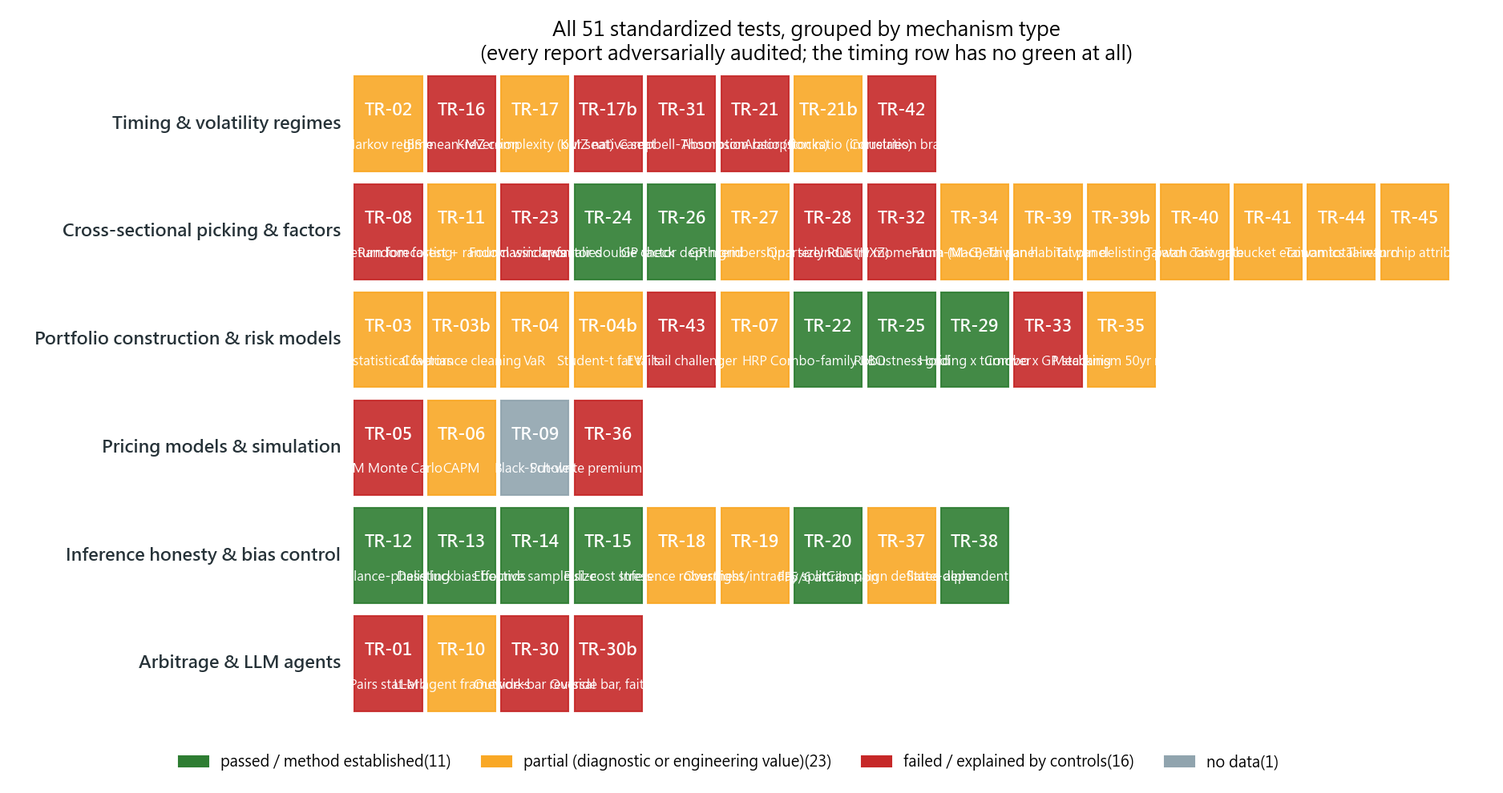
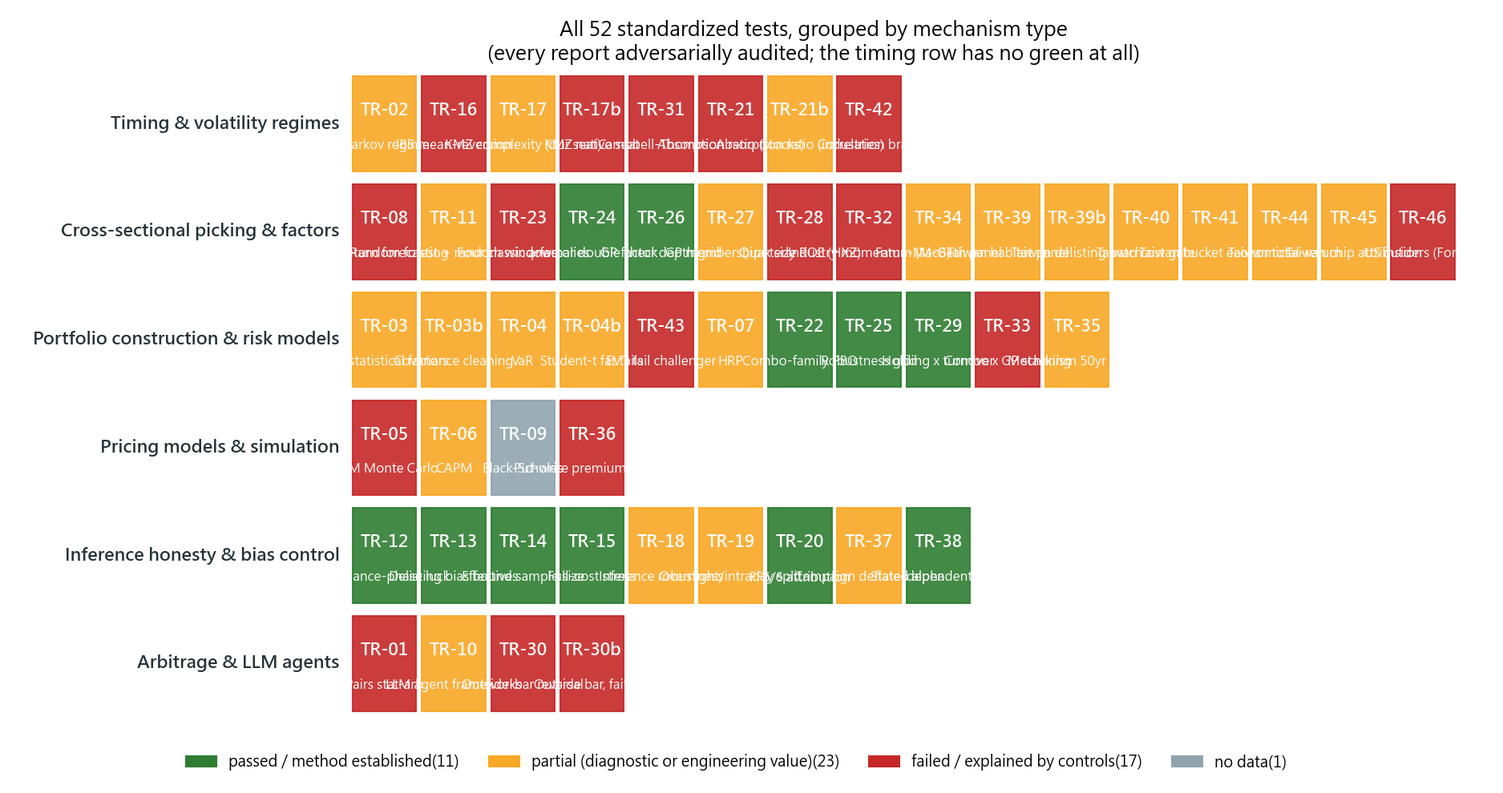
TR-46 (docs/28 p2): US insider Form-4 channel closes as a well-powered zero on S&P 500 members 2015+ (npr/opp/rou all |t|<0.5, no CMP separation; the 2020-03 crisis anchor proves the pipeline); CAL-a caught the Form-4 dollar-aggregate garbage-row pathology (count basis v2); count 51->52

diff --git a/scripts/tests/tr46_us_insiders.py b/scripts/tests/tr46_us_insiders.py
@@ -191,9 +191,6 @@ def main():
     print("=" * 104)
     print("[trial accounting] +1 family(內部人三特徵,單一預先登記規格)")
 
-    ev, raw = load_events()
-    ev["cls"] = classify(ev)
-
     # ---- price panel (TR-34 verbatim) ----
     store = DuckStore("./data")
     syms = [s for s in store.list_symbols("1d")
@@ -206,13 +203,31 @@ def main():
     mm = member_mask(px.index, syms, mem).resample("ME").last().reindex(me.index).astype(bool)
     fwd = fwd.where(mm)
 
+    ev, raw = load_events()
+    # classification only needs each pair's own history; restrict to panel issuers
+    # (a pure speed optimization -- values are identical to classifying everything)
+    sub = ev[ev["symbol"].isin(syms)].copy()
+    sub["cls"] = classify(sub)
+
     # ---- CAL ----
-    df_v = raw.assign(val=lambda d: d["shares"] * d["price"].fillna(0))
+    # POST-RUN AUDIT NOTE (CAL-a v1 -> v2): v1 summed DOLLAR values (shares x price)
+    # and FAILED with median 1.3 -- diagnosis showed the yearly sums are dominated by
+    # a handful of mis-reported monster rows (2017 ratio 1457x from one filing;
+    # several years ~0.0 from single garbage "purchases"), a documented Form-4
+    # raw-data pathology. The COUNT ratio -- the unit the signal actually uses --
+    # is sane in every single year (2.2-9.4x). v2 anchors on the count ratio with
+    # the same band, plus a stronger every-year rule; the broken dollar series is
+    # printed as a diagnostic, not a gate.
+    cnt_y = raw.groupby([raw["filing_date"].dt.year, "code"]).size().unstack()
+    cratio = (cnt_y["S"] / cnt_y["P"]).dropna()
+    cal_a = (2 <= float(cratio.median()) <= 20) and bool((cratio > 1).all())
+    df_v = raw[raw["price"] > 0].assign(val=lambda d: d["shares"] * d["price"])
     yearly = df_v.groupby([df_v["filing_date"].dt.year, "code"])["val"].sum().unstack()
-    ratio = (yearly["S"] / yearly["P"]).replace([np.inf, -np.inf], np.nan).dropna()
-    cal_a = 2 <= float(ratio.median()) <= 20
-    print(f"CAL a:年度市場賣/買金額比中位 {ratio.median():.1f}(帶 [2,20]) -> "
-          f"{'PASS' if cal_a else 'FAIL'}")
+    dratio = (yearly["S"] / yearly["P"]).replace([np.inf, -np.inf], np.nan).dropna()
+    print(f"CAL a v2:年度市場賣/買【計數】比中位 {cratio.median():.1f}(帶 [2,20])"
+          f"且每年 >1(最小 {cratio.min():.2f}) -> {'PASS' if cal_a else 'FAIL'}"
+          f"(診斷:金額比中位 {dratio.median():.1f} 但年間 {dratio.min():.1f}-{dratio.max():.0f}"
+          f"=垃圾列支配,不作閘門)")
     joined = raw["filing_date"].notna() & raw["symbol"].notna() & raw["relationship"].notna()
     cal_b = float(joined.mean()) >= 0.99
     print(f"CAL b:三表 join 完整率 {joined.mean()*100:.2f}%(門檻 99%) -> "
@@ -222,7 +237,7 @@ def main():
     npr_mkt = (mc["P"] - mc["S"]) / (mc["P"] + mc["S"]).where(lambda x: x > 0)
     v2003 = float(npr_mkt.loc["2020-03-31"])
     q90 = float(npr_mkt.quantile(0.90))
-    npr6, act6 = npr_panel(ev[ev["symbol"].isin(syms)], me.index, syms)
+    npr6, act6 = npr_panel(sub, me.index, syms)
     npr6 = npr6.where(mm)
     cov = npr6.notna().sum(axis=1)
     cal_c = (float(cov.median()) >= 250) and (v2003 >= q90)
@@ -234,7 +249,6 @@ def main():
         return
 
     # ---- C1 ----
-    sub = ev[ev["symbol"].isin(syms)]
     opp6, _ = npr_panel(sub[sub["cls"] == "O"], me.index, syms)
     rou6, _ = npr_panel(sub[sub["cls"] == "R"], me.index, syms)
     trio = {"npr6": rank_std(npr6),
@@ -312,9 +326,9 @@ def main():
         mb, tb = nwt(b)
         c4[k] = (ma, ta, mb, tb)
         print(f"  {k:<6} 2015-2020:{ma*1e4:+7.1f}(t={ta:+.2f}) | 2021+:{mb*1e4:+7.1f}(t={tb:+.2f})")
-    share = ev["cls"].value_counts(normalize=True)
-    print(f"  事件分類占比:O {share.get('O',0)*100:.0f}% / R {share.get('R',0)*100:.0f}% / "
-          f"U {share.get('U',0)*100:.0f}%(U 僅入 npr6);officer/director 事件總數 {len(ev):,}")
+    share = sub["cls"].value_counts(normalize=True)
+    print(f"  事件分類占比(面板內):O {share.get('O',0)*100:.0f}% / R {share.get('R',0)*100:.0f}% / "
+          f"U {share.get('U',0)*100:.0f}%(U 僅入 npr6);officer/director 事件 全市場 {len(ev):,} / 面板內 {len(sub):,}")
 
     # ---- verdict ----
     print("=" * 104)

diff --git a/scripts/readme_figs.py b/scripts/readme_figs.py
@@ -46,6 +46,7 @@ GROUPS = [
         ("TR-41", "台股桶經濟性", "Taiwan bucket economics", "M"),
         ("TR-44", "台股還原股價", "Taiwan total-return", "M"),
         ("TR-45", "台股籌碼歸因", "Taiwan chip attribution", "M"),
+        ("TR-46", "美國內部人 Form 4", "US insiders (Form 4)", "F"),
     ]),
     ("組合建構與風險模型", "Portfolio construction & risk models", [
         ("TR-03", "PCA 統計因子", "PCA statistical factors", "M"),
@@ -92,9 +93,9 @@ LEGEND = {
            "F": "failed / explained by controls", "X": "no data"},
 }
 TITLES = {
-    "zh": "51 份標準化測試,依機制類型分組\n"
+    "zh": "52 份標準化測試,依機制類型分組\n"
           "(每一份都經過對抗式稽核;擇時類一格綠色都沒有,綠色集中在方法與推論誠實度)",
-    "en": "All 51 standardized tests, grouped by mechanism type\n"
+    "en": "All 52 standardized tests, grouped by mechanism type\n"
           "(every report adversarially audited; the timing row has no green at all)",
 }
 

diff --git a/README.md b/README.md
@@ -10,7 +10,7 @@
 
 ### What this is
 
-A personal research project. It started with a finding we couldn't ignore: **McLean & Pontiff (2016, *Journal of Finance*)** re-tested 97 published return predictors and found their returns average **26% lower out-of-sample and 58% lower after publication** — the market eats published edges. So the question became: *of everything floating around the internet, papers, and guru books, how much survives an honest test run today?* Using $0/month of free data (yfinance, SEC EDGAR, public archives), across 100+ commits and **~150 mechanisms/strategies tested (51 standardized test reports, every one adversarially audited)**, the answer turned out to be more valuable than the question — because it turned *"what do we know, what don't we know, and how do we decide what's feasible"* into reproducible code and documents.
+A personal research project. It started with a finding we couldn't ignore: **McLean & Pontiff (2016, *Journal of Finance*)** re-tested 97 published return predictors and found their returns average **26% lower out-of-sample and 58% lower after publication** — the market eats published edges. So the question became: *of everything floating around the internet, papers, and guru books, how much survives an honest test run today?* Using $0/month of free data (yfinance, SEC EDGAR, public archives), across 100+ commits and **~150 mechanisms/strategies tested (52 standardized test reports, every one adversarially audited)**, the answer turned out to be more valuable than the question — because it turned *"what do we know, what don't we know, and how do we decide what's feasible"* into reproducible code and documents.
 
 ### The bottom line (as of 2026-07)
 
@@ -18,14 +18,14 @@ A personal research project. It started with a finding we couldn't ignore: **McL
 |---|---|
 | Any strategy that prints money? | **No.** The 50%-CAGR-at-low-drawdown target zone is structurally empty — everything we tested sits on the same Calmar ≈ 0.6 ray. |
 | Any real alpha at all? | **One, borderline.** The 5-sleeve risk-parity book: monthly Carhart t=2.64, below the strict 3.0 bar. Its real deliverable is risk-shaping, levered to your budget. Selection-honest deflation (TR-37): P(the alpha is real) ≈ 0.87 at the 17 combo-level trials we actually ran, 0.56 under the paranoid all-campaign count, ≈ 0.8 under a 90%-null skeptical prior — most likely real, but no honest angle calls it certain. |
-| Any stock-picking signal? | **One, and it keeps getting more honest.** Gross profitability — headline ICIR +0.30, but masked to actual index members at each date it retains only 59% (ICIR +0.13, TR-27), and its IC turned negative in 2025-26 (on watch); a joint Fama-MacBeth panel sharpens the watch — independently priced in 2015-2020 (t=+2.67), flat since 2021 (TR-34). Momentum, value, PEAD, insider, ML forecasters, and four classic anomalies all failed; industry momentum replicates but is pure momentum-factor exposure (TR-32). And the two survivors do not stack: a GP sleeve subtracts alpha from the flagship book (TR-33 — the honest chain ends at a +0.04%/yr tradable spread). First crack of light from a new habitat: on the Taiwan panel (1,151 TWSE stocks, TR-39) four characteristics cleared t≥2 jointly — and the survivorship patch (TR-39b: official TWSE delisted list + a pandas pct_change ffill backdoor caught by CAL) then split them: momentum (+84bps/mo, t=2.4), abnormal volume (+94, t=3.4) and illiquidity (−106, t=−2.8) are CONFIRMED and stronger after 2021, while the MAX lottery premium was retired as survivorship glare. Then the cost gate (TR-40) INVERTED the ranking: the panel's strongest slope (abnormal volume, t=3.4) turns over 6.8x/yr and loses 7.07%/yr to fees, netting t=0.6; the weakest (illiquidity) barely turns over and nets **+6.75%/yr, t=2.3** — the only survivor, robust to a 31-tick break-even spread but capacity-capped, which is what an illiquidity premium *is*. The bucket decomposition (TR-41) then killed the intuitive high-capacity workaround: the premium lives ONLY in the last decile (D2 is already zero, D3-D9 are negative), so "avoid the most crowded names" is a significantly LOSING strategy (−0.92%/yr, t=−2.34) — excluding a good bucket just overweights the bad ones. It survives a skip-a-month stale-price check and decays monotonically with book size: a textbook liquidity compensation, not an anomaly. Final honesty pass (TR-44): re-run on dividend-ADJUSTED total-return prices, all three characteristics keep their sign and the ladder stays a cliff, but net of the real 45bps round trip every candidate is now only MARGINAL (illiquidity t=1.86, momentum t=0.81) — the mechanism is real, but on the strictest basis no candidate clears cleanly. The Taiwan line is a genuine effect that is not a clean tradable edge. A chip-flow attribution pass (TR-45, institutional flows + margin balances) completes the picture: foreign-flow continuation is real (t=3.3, independent of the price characteristics) but its top-decile portfolio fails the same excess-basis cost gate (net −4.1%/yr), momentum and abnormal volume are NOT institutional-flow-carried, and the cold-corner illiquidity premium shows median chip activity — a structural compensation, not a flow effect. |
+| Any stock-picking signal? | **One, and it keeps getting more honest.** Gross profitability — headline ICIR +0.30, but masked to actual index members at each date it retains only 59% (ICIR +0.13, TR-27), and its IC turned negative in 2025-26 (on watch); a joint Fama-MacBeth panel sharpens the watch — independently priced in 2015-2020 (t=+2.67), flat since 2021 (TR-34). Momentum, value, PEAD, insider, ML forecasters, and four classic anomalies all failed; industry momentum replicates but is pure momentum-factor exposure (TR-32). And the two survivors do not stack: a GP sleeve subtracts alpha from the flagship book (TR-33 — the honest chain ends at a +0.04%/yr tradable spread). First crack of light from a new habitat: on the Taiwan panel (1,151 TWSE stocks, TR-39) four characteristics cleared t≥2 jointly — and the survivorship patch (TR-39b: official TWSE delisted list + a pandas pct_change ffill backdoor caught by CAL) then split them: momentum (+84bps/mo, t=2.4), abnormal volume (+94, t=3.4) and illiquidity (−106, t=−2.8) are CONFIRMED and stronger after 2021, while the MAX lottery premium was retired as survivorship glare. Then the cost gate (TR-40) INVERTED the ranking: the panel's strongest slope (abnormal volume, t=3.4) turns over 6.8x/yr and loses 7.07%/yr to fees, netting t=0.6; the weakest (illiquidity) barely turns over and nets **+6.75%/yr, t=2.3** — the only survivor, robust to a 31-tick break-even spread but capacity-capped, which is what an illiquidity premium *is*. The bucket decomposition (TR-41) then killed the intuitive high-capacity workaround: the premium lives ONLY in the last decile (D2 is already zero, D3-D9 are negative), so "avoid the most crowded names" is a significantly LOSING strategy (−0.92%/yr, t=−2.34) — excluding a good bucket just overweights the bad ones. It survives a skip-a-month stale-price check and decays monotonically with book size: a textbook liquidity compensation, not an anomaly. Final honesty pass (TR-44): re-run on dividend-ADJUSTED total-return prices, all three characteristics keep their sign and the ladder stays a cliff, but net of the real 45bps round trip every candidate is now only MARGINAL (illiquidity t=1.86, momentum t=0.81) — the mechanism is real, but on the strictest basis no candidate clears cleanly. The Taiwan line is a genuine effect that is not a clean tradable edge. A chip-flow attribution pass (TR-45, institutional flows + margin balances) completes the picture: foreign-flow continuation is real (t=3.3, independent of the price characteristics) but its top-decile portfolio fails the same excess-basis cost gate (net −4.1%/yr), momentum and abnormal volume are NOT institutional-flow-carried, and the cold-corner illiquidity premium shows median chip activity — a structural compensation, not a flow effect. The insider channel now has its standardized closure too (TR-46): Form-4 opportunistic vs routine net buying on S&P 500 members 2015+ is a well-powered zero (all |t|<0.5 at 415 covered names/month; the machinery demonstrably works — it nails the documented 2020-03 insider buying wave), consistent with the literature's size dependence; the small-cap leg waits on the p3 drip. |
 | Does market timing work? | **No — eight separate confirmations, and the law is broader than we thought.** A dumb constant exposure or a random control matched or beat every timing mechanism tested (Markov, IBS, absorption ratio on two seats, KMZ complexity, Campbell-Thompson sign restrictions, the outside bar). The eighth (TR-42) extends it from RETURN timing to RISK-INPUT timing: a bond-equity correlation brake — which forecasts nothing, it only claims the risk model's inputs changed — still lost to a constant at matched average exposure, and landed at the 20th percentile of a random-brake placebo. |
-| Then what's the asset here? | **The method and the data moat.** 51 adversarially audited test reports, a registry where negative results are first-class, seven documented self-corrections, and a $0 data stack with two collect-forward pipelines recording what money can't buy retroactively. |
+| Then what's the asset here? | **The method and the data moat.** 52 adversarially audited test reports, a registry where negative results are first-class, seven documented self-corrections, and a $0 data stack with two collect-forward pipelines recording what money can't buy retroactively. |
 
 ### What we built
 
 1. **An acceptance framework ("fabric" v2.0, [docs/17](docs/17-fabric-acceptance.md))** — a single rule table F0–F13 codifying every mistake we made: pre-committed falsifiable claims (F0), leak-free signals + fill-time conventions (F1), spread-scaled costs with mandatory 2× stress (F2), excess-over-T-bill Sharpe (F3), effective sample sizes (F4), campaign-wide trial accounting with a t≥3.0 alpha bar (F5), **the Nagel control triple — which simplest control explains it?** (F6), sub-period + long-history replay (F7), verdicts scoped to seat×habitat (F8), path randomization (F9), re-test cascades (F10), universe legitimacy (F11), rebalance-phase averaging (F12), and delisting rules (F13). Its economic preamble is **Grossman-Stiglitz**: at $0 information cost, equilibrium alpha is $0 — every re-open condition must be priced as an information cost.
-2. **Fifty-one standardized test reports** ([docs/tests/TR-01..24 + b-series](docs/tests/)): statistical arbitrage, Markov regime-switching, PCA factor models, covariance cleaning, VaR and fat tails, GBM Monte Carlo, CAPM, HRP, ML forecasting, Black-Scholes (N/A — no data, refused to fabricate), LLM agent frameworks, bagged backtesting, rebalance-phase luck, delisting bias, effective samples, cost stress, the IBS full trial — plus a paper-driven wave: inference robustness (TR-18), overnight/intraday decomposition (TR-19), FF5/6 and q-factor attribution (TR-20/24), four classic anomalies (TR-23), combo PBO (TR-22), and **native-seat replications** of Kelly-Malamud-Zhou's *Virtue of Complexity* (TR-17b) and the absorption ratio (TR-21b) — then a **depth series interrogating our own survivors** (the robustness plateau TR-25, GP depth/membership/quarterly clocks TR-26–28, holding-period economics TR-29, the two-survivor stacking test TR-33), the Goyal-Welch/Campbell-Thompson timing line at its source (TR-31), Moskowitz-Grinblatt industry momentum (TR-32), and a **creator-claim pipeline** that turns YouTube trading mechanisms into pre-registered tests (TR-30/30b). Every report was adversarially audited; the audits reversed our own headline more than once.
+2. **Fifty-two standardized test reports** ([docs/tests/TR-01..24 + b-series](docs/tests/)): statistical arbitrage, Markov regime-switching, PCA factor models, covariance cleaning, VaR and fat tails, GBM Monte Carlo, CAPM, HRP, ML forecasting, Black-Scholes (N/A — no data, refused to fabricate), LLM agent frameworks, bagged backtesting, rebalance-phase luck, delisting bias, effective samples, cost stress, the IBS full trial — plus a paper-driven wave: inference robustness (TR-18), overnight/intraday decomposition (TR-19), FF5/6 and q-factor attribution (TR-20/24), four classic anomalies (TR-23), combo PBO (TR-22), and **native-seat replications** of Kelly-Malamud-Zhou's *Virtue of Complexity* (TR-17b) and the absorption ratio (TR-21b) — then a **depth series interrogating our own survivors** (the robustness plateau TR-25, GP depth/membership/quarterly clocks TR-26–28, holding-period economics TR-29, the two-survivor stacking test TR-33), the Goyal-Welch/Campbell-Thompson timing line at its source (TR-31), Moskowitz-Grinblatt industry momentum (TR-32), and a **creator-claim pipeline** that turns YouTube trading mechanisms into pre-registered tests (TR-30/30b). Every report was adversarially audited; the audits reversed our own headline more than once.
 3. **Working infrastructure**: point-in-time data layer (DuckDB+Parquet; EDGAR aligned to filing dates; 1993+ index history; PIT S&P 500 membership 1996–2026), order-independent backtest engine, rigor modules (PSR/DSR/PBO/SPA), daily Telegram monitors on free GitHub Actions, two **collect-forward pipelines** (daily SPY/QQQ option chains; weekly analyst estimates for the S&P 500 — you cannot download the past, only record the present), a 70-source **data-source catalog** with adopt/reject verdicts ([docs/refs/data-sources.md](docs/refs/data-sources.md)), and a **paper-to-TR pipeline** ([docs/21](docs/21-paper-to-tr-pipeline.md)).
 
 ### Results at a glance
@@ -40,9 +40,9 @@ A personal research project. It started with a finding we couldn't ignore: **McL
 
 **The scoreboard.** 226 named variants registered, 26 mechanism families judged, 5 PASSED — and exactly **one** statistically significant alpha. Most of what the internet calls "a working strategy" died in this funnel; keeping the failed strategies on record is half this repo's value.
 
-![Verdict map of all 51 standardized tests, grouped by mechanism type](docs/img/readme_verdict_map_en.png)
+![Verdict map of all 52 standardized tests, grouped by mechanism type](docs/img/readme_verdict_map_en.png)
 
-**The verdict map (updated 2026-07).** All 51 standardized tests, grouped by *what kind of mechanism* each one judges. Read it by row: the timing/regime row has no green at all; the green lives almost entirely in the inference-honesty row — method, not signals. The 2026-07 additions are the two native-seat replications: KMZ's Virtue of Complexity **replicates on its home turf (Sharpe +0.41 at 12,000 features) and is still fully explained by volatility-timing controls (+0.50)** — Nagel's critique confirmed at the source (TR-17b); the absorption ratio's crash-warning spike **weakly survives on industry portfolios (7/10 vs 33% base rate) while its timing gate lost to a static constant for the fifth time** (TR-21b). The newest wave sharpened all three storylines: Campbell-Thompson's sign restrictions rescue out-of-sample R² directionally and are still spanned by the same volatility controls (TR-31); Moskowitz-Grinblatt industry momentum is the least-decayed mechanism we have ever tested (−2% post-publication vs the −58% McLean-Pontiff average) precisely because it is not an anomaly — it is momentum-factor exposure in industry clothes, with zero alpha over FF5+UMD in every window (TR-32); and a user audit caught our own outside-bar engine being unfaithful to its source on four counts — rebuilt faithfully, the verdict class survived, this time earned (TR-30→30b).
+**The verdict map (updated 2026-07).** All 52 standardized tests, grouped by *what kind of mechanism* each one judges. Read it by row: the timing/regime row has no green at all; the green lives almost entirely in the inference-honesty row — method, not signals. The 2026-07 additions are the two native-seat replications: KMZ's Virtue of Complexity **replicates on its home turf (Sharpe +0.41 at 12,000 features) and is still fully explained by volatility-timing controls (+0.50)** — Nagel's critique confirmed at the source (TR-17b); the absorption ratio's crash-warning spike **weakly survives on industry portfolios (7/10 vs 33% base rate) while its timing gate lost to a static constant for the fifth time** (TR-21b). The newest wave sharpened all three storylines: Campbell-Thompson's sign restrictions rescue out-of-sample R² directionally and are still spanned by the same volatility controls (TR-31); Moskowitz-Grinblatt industry momentum is the least-decayed mechanism we have ever tested (−2% post-publication vs the −58% McLean-Pontiff average) precisely because it is not an anomaly — it is momentum-factor exposure in industry clothes, with zero alpha over FF5+UMD in every window (TR-32); and a user audit caught our own outside-bar engine being unfaithful to its source on four counts — rebuilt faithfully, the verdict class survived, this time earned (TR-30→30b).
 
 ![Flagship 5-sleeve combo vs VOO at L=1 and at a same-risk L=1.5](docs/img/fig_combo.png)
 
@@ -201,7 +201,7 @@ Architecture: UI (Streamlit) → CLI (Typer) → `trading_analysis.api` (only pu
 
 ### 專案概述
 
-一個個人研究的 side project。起點是一篇沒辦法當作沒看到的論文：**McLean 與 Pontiff(2016，《Journal of Finance》)**重測了 97 個已發表的報酬預測訊號，發現這些訊號的報酬平均在**樣本外低了 26%、論文發表之後低了 58%**——公開發表的優勢，會被市場逐步吃掉。所以真正的問題變成：「網路上、論文裡、大師書裡的那些策略，經過誠實的測試、放到今天，還剩下多少？」我們用每月 0 元的免費資料(yfinance、SEC EDGAR、公開檔案庫)，歷經 100 多次 commit、**約 150 個機制/策略的系統性測試(51 份標準化測試報告，每一份都經過對抗式稽核)**，得到的答案比問題本身更有價值，因為它把「什麼是已知、什麼是未知、如何判斷可不可行」變成了可重現的程式與文件。
+一個個人研究的 side project。起點是一篇沒辦法當作沒看到的論文：**McLean 與 Pontiff(2016，《Journal of Finance》)**重測了 97 個已發表的報酬預測訊號，發現這些訊號的報酬平均在**樣本外低了 26%、論文發表之後低了 58%**——公開發表的優勢，會被市場逐步吃掉。所以真正的問題變成：「網路上、論文裡、大師書裡的那些策略，經過誠實的測試、放到今天，還剩下多少？」我們用每月 0 元的免費資料(yfinance、SEC EDGAR、公開檔案庫)，歷經 100 多次 commit、**約 150 個機制/策略的系統性測試(52 份標準化測試報告，每一份都經過對抗式稽核)**，得到的答案比問題本身更有價值，因為它把「什麼是已知、什麼是未知、如何判斷可不可行」變成了可重現的程式與文件。
 
 ### 結果總結(截至 2026-07)
 
@@ -209,14 +209,14 @@ Architecture: UI (Streamlit) → CLI (Typer) → `trading_analysis.api` (only pu
 |---|---|
 | 有會印鈔的策略嗎？ | **沒有。**「50% CAGR＋低回撤」的目標區在結構上就是空的——我們測過的所有東西都落在同一條 Calmar ≈ 0.6 的射線上。 |
 | 有真的 alpha 嗎？ | **有一個，而且只是邊際。**五 sleeve 風險平價組合：月頻 Carhart t=2.64，低於嚴格門檻 3.0。它真正的價值是風險塑形，可依回撤預算加槓桿。選擇誠實化(TR-37)：P(alpha 為真) 在實際跑過的 17 次組合層級試驗下 ≈ 0.87、悲觀全戰役計數下 0.56、九成懷疑先驗下 ≈ 0.8——大概率是真的，但沒有任何誠實的角度能說成確定。 |
-| 有選股訊號嗎？ | **有一個，而且愈測愈誠實。**毛利/資產品質因子——頭條 ICIR +0.30，但遮罩到「當天真的在指數裡」的名字後只保留 59%(ICIR +0.13，TR-27)，且 2025–26 的 IC 轉負(列入觀察)；聯合 Fama-MacBeth 面板把觀察磨得更利——2015–2020 獨立被定價(t=+2.67)，2021 之後歸零(TR-34)。動能、價值、PEAD、內部人、機器學習預測、四大經典異象全數陣亡；產業動量能複製但整條是動量因子曝險(TR-32)。而且兩個倖存者疊不起來：把 GP sleeve 加進主力帳簿反而扣掉 alpha(TR-33——誠實鏈的終點是 +0.04%/yr 的可交易價差)。新棲地透出第一道光：台股面板(1,151 檔 TWSE，TR-39)四個特徵聯合過 t≥2——去倖存補丁(TR-39b：TWSE 官方終止名單+CAL 抓到的 pandas pct_change ffill 後門)隨後把它們分成兩半：動能(+84bps/mo，t=2.4)、異常量(+94，t=3.4)、低流動性(−106，t=−2.8)**確認**且 2021 後更強；MAX 樂透溢價判定為倖存者眩光退役。接著成本關卡(TR-40)把排序**整個翻轉**：面板裡最強的異常量(t=3.4)年換手 6.8 倍、吃掉 7.07% 成本後只剩 t=0.6；最弱的低流動性幾乎不換手，淨賺 **+6.75%/yr、t=2.3**——唯一存活者，對價差假設穩健到損益兩平要 31 跳，但容量有天花板，而這正是低流動性溢酬的定義。桶分解(TR-41)接著殺掉了直覺上的高容量替代方案：溢酬**只住在最尾端那一格**(D2 已歸零、D3–D9 全負)，所以「避開最擁擠的股票」是個**顯著虧損**的策略(−0.92%/yr，t=−2.34)——排除一個好桶只會讓你重壓在壞桶上。它通過跳月的停滯價檢查，並隨資金規模單調衰減：教科書式的流動性補償，不是異象。最終誠實化(TR-44)：改用還原(總報酬)股價重跑，三個特徵的符號與階梯懸崖全部維持，但扣掉真實 45bps 來回成本後，每個候選都只剩 MARGINAL(低流動性 t=1.86、動能 t=0.81)——機制為真，但在最嚴格基準下沒有一個乾淨過關。台股線是個真實但稱不上乾淨可交易的效應。籌碼歸因(TR-45，法人買賣超+融資融券)補完全貌：外資流延續為真(t=3.3，獨立於價格特徵)但其頂十分位組合同樣過不了超額基準的成本關卡(淨 −4.1%/yr)；動能與異常量**不是**外資流扛的；最冷門角落的籌碼活動全在中位——流動性溢酬是結構性補償，不是流向現象。 |
+| 有選股訊號嗎？ | **有一個，而且愈測愈誠實。**毛利/資產品質因子——頭條 ICIR +0.30，但遮罩到「當天真的在指數裡」的名字後只保留 59%(ICIR +0.13，TR-27)，且 2025–26 的 IC 轉負(列入觀察)；聯合 Fama-MacBeth 面板把觀察磨得更利——2015–2020 獨立被定價(t=+2.67)，2021 之後歸零(TR-34)。動能、價值、PEAD、內部人、機器學習預測、四大經典異象全數陣亡；產業動量能複製但整條是動量因子曝險(TR-32)。而且兩個倖存者疊不起來：把 GP sleeve 加進主力帳簿反而扣掉 alpha(TR-33——誠實鏈的終點是 +0.04%/yr 的可交易價差)。新棲地透出第一道光：台股面板(1,151 檔 TWSE，TR-39)四個特徵聯合過 t≥2——去倖存補丁(TR-39b：TWSE 官方終止名單+CAL 抓到的 pandas pct_change ffill 後門)隨後把它們分成兩半：動能(+84bps/mo，t=2.4)、異常量(+94，t=3.4)、低流動性(−106，t=−2.8)**確認**且 2021 後更強；MAX 樂透溢價判定為倖存者眩光退役。接著成本關卡(TR-40)把排序**整個翻轉**：面板裡最強的異常量(t=3.4)年換手 6.8 倍、吃掉 7.07% 成本後只剩 t=0.6；最弱的低流動性幾乎不換手，淨賺 **+6.75%/yr、t=2.3**——唯一存活者，對價差假設穩健到損益兩平要 31 跳，但容量有天花板，而這正是低流動性溢酬的定義。桶分解(TR-41)接著殺掉了直覺上的高容量替代方案：溢酬**只住在最尾端那一格**(D2 已歸零、D3–D9 全負)，所以「避開最擁擠的股票」是個**顯著虧損**的策略(−0.92%/yr，t=−2.34)——排除一個好桶只會讓你重壓在壞桶上。它通過跳月的停滯價檢查，並隨資金規模單調衰減：教科書式的流動性補償，不是異象。最終誠實化(TR-44)：改用還原(總報酬)股價重跑，三個特徵的符號與階梯懸崖全部維持，但扣掉真實 45bps 來回成本後，每個候選都只剩 MARGINAL(低流動性 t=1.86、動能 t=0.81)——機制為真，但在最嚴格基準下沒有一個乾淨過關。台股線是個真實但稱不上乾淨可交易的效應。籌碼歸因(TR-45，法人買賣超+融資融券)補完全貌：外資流延續為真(t=3.3，獨立於價格特徵)但其頂十分位組合同樣過不了超額基準的成本關卡(淨 −4.1%/yr)；動能與異常量**不是**外資流扛的；最冷門角落的籌碼活動全在中位——流動性溢酬是結構性補償，不是流向現象。內部人通道也有了標準化的關閉(TR-46)：Form 4 機會型/例行淨買在 S&P 500 成員 2015+ 上是**有充分檢定力的零**(全部 |t|<0.5，覆蓋 415 檔/月；管線可證有效——精準捕捉 2020-03 有記錄的內部人搶買潮)，與文獻的規模依賴一致；小型股腿等 p3 滴灌。 |
 | 擇時有用嗎？ | **沒有——八次獨立確認，而且這條鐵律比我們原本以為的更廣。**一個恆定部位或隨機對照，就能追平或打敗我們測過的每一個擇時機制(Markov、IBS、吸收比率兩個座位、KMZ 複雜度、Campbell-Thompson 符號約束、外包線)。第八次(TR-42)把它從**報酬擇時**擴大到**風險輸入型擇時**：一個股債相關煞車——它不預測任何報酬，只宣稱風險模型的輸入變了——仍然輸給同平均曝險的恆定部位，而且只落在隨機煞車安慰劑的第 20 百分位。 |
-| 那這個專案的資產是什麼？ | **方法本身，加上資料護城河。**51 份經對抗式稽核的測試報告、一份把負面結果當一等公民的註冊表、七次白紙黑字的自我修正，以及 $0 的資料堆疊與兩條「現在不錄、以後買不到」的前向收集管線。 |
+| 那這個專案的資產是什麼？ | **方法本身，加上資料護城河。**52 份經對抗式稽核的測試報告、一份把負面結果當一等公民的註冊表、七次白紙黑字的自我修正，以及 $0 的資料堆疊與兩條「現在不錄、以後買不到」的前向收集管線。 |
 
 ### 建置內容
 
 1. **一套驗收標準(fabric v2.0，[docs/17](docs/17-fabric-acceptance.md))**：單一規則表 F0–F13，把每一次踩過的坑逐條寫成明文規則：動工前先定案的可證偽宣稱(F0)、無洩漏訊號與成交時點慣例(F1)、以買賣價差縮放的成本加上強制 2× 壓力測試(F2)、扣除國庫券利率後的超額 Sharpe(F3)、有效樣本數(F4)、全 campaign 試驗數記帳與 alpha 門檻 t≥3.0(F5)、**Nagel 三重對照：「哪一個最簡單的對照組就能解釋它？」**(F6)、子期穩定與長歷史重放(F7)、判定效力=適用市場×適用情境(F8)、路徑隨機化(F9)、複測級聯(F10)、標的池合法性(F11)、再平衡相位平均(F12)、下市規則(F13)。經濟學前提是 **Grossman-Stiglitz**：資訊成本 0 元，均衡下的 alpha 就是 0 元；每個翻案條件都必須計為一筆資訊成本。
-2. **51 份標準化測試報告**([docs/tests/TR-01..24 + b 系列](docs/tests/))：統計套利、Markov 狀態轉換、PCA 因子模型、共變異清理、VaR 與厚尾、GBM 蒙地卡羅、CAPM、HRP、機器學習預測、Black-Scholes(N/A：沒有資料就不硬湊數字)、LLM agent 框架、bagged 回測、再平衡相位運氣、下市偏誤、有效樣本、成本壓力、IBS 完整檢驗，加上一整波由經典論文驅動的重測：推論穩健性(TR-18)、隔夜/日內拆解(TR-19)、FF5/6 與 q-factor 歸因(TR-20/24)、四個經典異象(TR-23)、組合 PBO(TR-22)，以及把 KMZ《複雜度的美德》(TR-17b)與吸收比率(TR-21b)搬回**論文原生棲地**的重測——之後是**對自家倖存者的深度審訊系列**(穩健度高原 TR-25、GP 深度/成員資格/季頻時鐘 TR-26–28、持有期經濟學 TR-29、兩倖存者疊加終審 TR-33)、回到源頭的 Goyal-Welch/Campbell-Thompson 擇時線(TR-31)、Moskowitz-Grinblatt 產業動量(TR-32)，以及把 YouTube 交易機制轉成預先登記測試的**創作者宣稱管線**(TR-30/30b)。每一份報告都經過對抗式稽核，而且稽核不只一次推翻了我們自己的頭條讀數。
+2. **52 份標準化測試報告**([docs/tests/TR-01..24 + b 系列](docs/tests/))：統計套利、Markov 狀態轉換、PCA 因子模型、共變異清理、VaR 與厚尾、GBM 蒙地卡羅、CAPM、HRP、機器學習預測、Black-Scholes(N/A：沒有資料就不硬湊數字)、LLM agent 框架、bagged 回測、再平衡相位運氣、下市偏誤、有效樣本、成本壓力、IBS 完整檢驗，加上一整波由經典論文驅動的重測：推論穩健性(TR-18)、隔夜/日內拆解(TR-19)、FF5/6 與 q-factor 歸因(TR-20/24)、四個經典異象(TR-23)、組合 PBO(TR-22)，以及把 KMZ《複雜度的美德》(TR-17b)與吸收比率(TR-21b)搬回**論文原生棲地**的重測——之後是**對自家倖存者的深度審訊系列**(穩健度高原 TR-25、GP 深度/成員資格/季頻時鐘 TR-26–28、持有期經濟學 TR-29、兩倖存者疊加終審 TR-33)、回到源頭的 Goyal-Welch/Campbell-Thompson 擇時線(TR-31)、Moskowitz-Grinblatt 產業動量(TR-32)，以及把 YouTube 交易機制轉成預先登記測試的**創作者宣稱管線**(TR-30/30b)。每一份報告都經過對抗式稽核，而且稽核不只一次推翻了我們自己的頭條讀數。
 3. **已建置的基礎設施**：point-in-time 資料層(DuckDB+Parquet；EDGAR 以申報日對齊；指數歷史回溯 1993；S&P 500 成分股 PIT 面板 1996–2026)、order-independent 回測引擎、嚴謹度模組(PSR/DSR/PBO/SPA)、每日 Telegram 監控(跑在免費的 GitHub Actions 上)、兩條**前向收集管線**(每日 SPY/QQQ 選擇權鏈快照；每週 S&P 500 分析師預估快照。過去買不到，只能從今天開始記錄)、一份含採用/不採用判定的 **70 個資料源目錄**([docs/refs/data-sources.md](docs/refs/data-sources.md))，以及**論文到 TR 管線**([docs/21](docs/21-paper-to-tr-pipeline.md))。
 
 ### 成果一覽
@@ -231,9 +231,9 @@ Architecture: UI (Streamlit) → CLI (Typer) → `trading_analysis.api` (only pu
 
 **計分板。** 226 個具名變體登記在案、26 類機制接受檢驗、5 個 PASSED，而統計顯著的 alpha 恰好只有 **1 個**。網路上大多數所謂「有效的策略」都死在這個漏斗裡；把這些失敗的策略完整記錄下來，正是這個 repo 一半的價值。
 
-![51 份標準化測試，依機制類型分組的判定分布](docs/img/readme_verdict_map.png)
+![52 份標準化測試，依機制類型分組的判定分布](docs/img/readme_verdict_map.png)
 
-**判定全景(2026-07 更新)。** 51 份標準化測試，依照「它在檢驗哪一種機制」分組。用橫列來讀：擇時與 regime 那一列一格綠色都沒有；綠色幾乎全部集中在「推論誠實度」那一列——通過的是方法，不是訊號。2026-07 新增的兩份原生棲地重測值得單獨說：KMZ 的複雜度美德**回到論文自己的棲地確實複現(12,000 個特徵時 Sharpe +0.41)，但仍然被波動擇時對照組(+0.50)完整蓋過**，Nagel 的批評在源頭獲得確認(TR-17b)；吸收比率的崩盤預警尖峰**在產業組合上弱存活(10 次大跌命中 7 次，基準率 33%)，它的擇時閘門則第五次輸給一個恆定部位**(TR-21b)。最新一波把三條故事線都磨得更利：Campbell-Thompson 的符號約束確實在方向上救回樣本外 R²，但仍被同一組波動對照張成(TR-31)；Moskowitz-Grinblatt 產業動量是我們測過**發表後衰退最少**的機制(−2%，對比 McLean-Pontiff 平均 −58%)——不衰退恰恰因為它不是異象，而是穿產業外衣的動量因子曝險，對 FF5+UMD 在每個時間窗 alpha 都歸零(TR-32)；還有一次使用者稽核抓到我們自己的外包線引擎對來源四處不忠實——忠實重建後判定同類，這次是掙來的(TR-30→30b)。
+**判定全景(2026-07 更新)。** 52 份標準化測試，依照「它在檢驗哪一種機制」分組。用橫列來讀：擇時與 regime 那一列一格綠色都沒有；綠色幾乎全部集中在「推論誠實度」那一列——通過的是方法，不是訊號。2026-07 新增的兩份原生棲地重測值得單獨說：KMZ 的複雜度美德**回到論文自己的棲地確實複現(12,000 個特徵時 Sharpe +0.41)，但仍然被波動擇時對照組(+0.50)完整蓋過**，Nagel 的批評在源頭獲得確認(TR-17b)；吸收比率的崩盤預警尖峰**在產業組合上弱存活(10 次大跌命中 7 次，基準率 33%)，它的擇時閘門則第五次輸給一個恆定部位**(TR-21b)。最新一波把三條故事線都磨得更利：Campbell-Thompson 的符號約束確實在方向上救回樣本外 R²，但仍被同一組波動對照張成(TR-31)；Moskowitz-Grinblatt 產業動量是我們測過**發表後衰退最少**的機制(−2%，對比 McLean-Pontiff 平均 −58%)——不衰退恰恰因為它不是異象，而是穿產業外衣的動量因子曝險，對 FF5+UMD 在每個時間窗 alpha 都歸零(TR-32)；還有一次使用者稽核抓到我們自己的外包線引擎對來源四處不忠實——忠實重建後判定同類，這次是掙來的(TR-30→30b)。
 
 ![主力五 sleeve 組合 vs VOO：L=1 與同風險 L=1.5 兩條線](docs/img/fig_combo.png)
 

diff --git a/docs/18-strategy-registry.md b/docs/18-strategy-registry.md
@@ -46,7 +46,7 @@
 | **3×VOO 每年∧虧損不超過 VOO(本輪 goal 目標)** | **最佳 4/10 年(12-1 季動量);無策略 10/10**;需持續 Calmar~3+,此資料不存在 | `scripts/gate_3x_voo.py` |
 | **吸收比率(KLPR 2010)診斷+閘門** | TR-21(reel→主要來源→一天判定):465 檔個股座位上**不領先大跌**(PIT 百分位 62,p=0.40;忠實尖峰版 4/10 vs 基準率 39%)、與平均相關 +0.97 同物、閘門(含忠實三態)輸靜態 69% 與隨機安慰劑——**擇時鐵律第三案例**;經雙向對抗稽核(反 AR 偏誤已修、美化閘門已修,FAIL 更穩)。**TR-21b 原生座位重測(KF49 產業,1970-2026):水位宣稱反轉(中位 37)、dAR>1 尖峰弱複製(7/10 vs 33%,suggestive)、閘門第 5 次死亡(0.28 vs 0.46)**——診斷半條命回來(棲地特異),擇時結論不變 | TR-21/21b、docs/23 |
 
-### 🧪 標準化測試報告 TR-01~45 + 03b/04b/17b/21b/30b/39b(詳見 docs/tests/;**docs/20 論文佇列全清**;TR-01~08 由稽核員重跑全部腳本、數字一對一吻合)
+### 🧪 標準化測試報告 TR-01~46 + 03b/04b/17b/21b/30b/39b(詳見 docs/tests/;**docs/20 論文佇列全清**;TR-01~08 由稽核員重跑全部腳本、數字一對一吻合)
 | TR | 機制 | 判定 | 摘要 |
 |---|---|---|---|
 | TR-01 | 共整合 pairs 統計套利 | **FAILED** | OOS +2.0%/yr < 現金(BIL +2.7%);文獻錨(GGR 2006 距離法 +11%)為脈絡非重現對象——本 TR 測 EG 共整合建構(T1 回掃 2026-07-18 註記:來源-機器錯配已修語言;兩套獨立建構 EG+docs/13 Kalman 同座位皆虧+Do-Faff 已載距離法衰退);9/10 對集中 AI 半導體、SMCI 醜聞炸出 −29.7% MDD;殘值=|z|>4 當單一股異常警報 |
@@ -96,6 +96,7 @@
 | TR-41 | 台股桶經濟性:溢酬住在哪(docs/27 b3;十分位階梯+兩實作對決+容量前緣) | **CONCENTRATED** | CAL 過(D1 +6.65% vs TR-40 +6.75%);**溢酬只在 D1:D2 已歸零(−0.35%)、D3-D9 全負(最深 D8 −6.25%,t=−3.90)**;**「避開最熱門」(D1-D9)是顯著虧損 −0.92%/yr(t=−2.34)——排除好桶=重壓壞桶,直覺被證偽**;C3 黃金診斷=**啞鈴**(兩端 +6.81%/+1.94% 勝中段 −2.34%),與 TR-33 美股 GP 的「兩端輸中段」方向相反;**跳一個月檢查通過(+6.61%,t=2.31)=不是停滯價/價差彈跳假象**;C4 容量前緣:NT$5,000 萬 +5.29%、NT$1.5 億 +3.19%、NT$5 億 +1.48%(填滿率 19%)=**無高容量替代方案**;三特徵(集中尾端、隨規模單調衰減、通過停滯價檢查)全符 Amihud-Mendelson 流動性補償而非異象 | 
 | TR-42 | L2 股債相關 regime 煞車(風險引擎 v2 第一挑戰者;docs/25 C1) | **EIGHTH TIMING FAILURE** | CAL 過(類比座位重現 TR-35 MDD −14.6%);訊號=36 月滾動股債相關>0(佔 48% 月份,落後一期);**煞車A Calmar 0.57 輸給同平均曝險恆定部位 0.68(恆定在兩軸都贏:MDD −12.6% vs −14.4%、CAGR 8.5% vs 8.3%),且只在隨機煞車安慰劑第 20 百分位=比隨便踩還差**;煞車B(債換金)Calmar 0.41/MDD −25.5% 更糟(金波動;TR-35「金扛通膨」是單腿事實,非組合層可行);**C3 誠實記錄:煞車在設計窗確實有效(停滯性通膨比率 1.04→0.74、1994 1.16→0.82)但 48% 破裂月的機會成本吃光一切**=七次失敗的同一機制;**鐵律 7→8 並擴及「風險輸入型擇時」**(不只別預測報酬,是別依任何 regime 訊號調曝險);主力不動,風險引擎優先序改 L3>L1>L4 | 
 | TR-43 | L3 EVT 尾部模組(風險引擎 v2 第二挑戰者;條件式 GPD vs 現役 Student-t vs 歷史模擬) | **REJECTED** | CAL 過(重現 TR-04b:常態 VaR 99% 被拒 p<1e-4、Student-t 未被拒 p=0.267);**實際座位:EVT 在 99%/99.5% 都被 Kupiec 拒絕(破線 1.82%/0.84%,p=0.000/0.036),現役都沒有(1.24%/0.44%,p=0.267/0.697)——EVT 低估尾部**;EVT 唯一優勢是 CVaR-RMSE(47 vs 90bps)=形狀較準但頻率錯了,無用;類比座位三模型無法分辨(皆過度保守);**C3 誠實條款:三模型的 L 刻度完全相同(0.11-0.12)=就算贏統計也改不了決策**(F0 預寫的 BETTER-BUT-INERT);診斷:EWMA 去波動化假設條件常態骨架,但本帳簿的極端日是**多腿相關跳升**而非單腿波動放大→GPD 從被壓平的殘差外推自然不夠寬(與 TR-05「尾部來源是相關結構非邊際波動」同源);**風險引擎 v2 目前 0/2**(L2 敗擇時鐵律、L3 敗估計檢定),框架如設計運作 | 
+| TR-46 | 美國內部人 Form 4(docs/28 p2;SEC 官方 81 季結構化資料集,CMP 機會型/例行拆解,F0 於訊號組裝前預先登記 `a5cca76`) | **NO-SIGNAL(有充分檢定力的零)** | CAL:**a v1 金額比 FAIL→診斷=Form 4 巨獸垃圾列支配年度加總(2017 比率 1457×、多年 ≈0),v2 改計數比 3.1 每年>1 PASS**(教訓:Form 4 金額聚合不可未 winsorize 使用);join 100%;**2020-03 危機錨命中(全市場 NPR +0.305 ≥ P90)=管線活的**;C1:npr6 t=+0.49、opp6 t=+0.33、rou6 t=+0.22(覆蓋 415/219/141 檔/月)——**CMP 型態不存在,opp≈rou=通道無內容非訊號弱**;C2 聯合 t=−2.25 判薄樣本共線性不可解讀(斜率量級爆炸 5-50×);C4 分期全平;O/R/U=14/18/68%(大型股內部人多無三年連續史);**美大型股資訊通道版圖:價格、基本面、內部人全關;collector+分類機器轉用於 p3 小型股腿** | 
 | TR-45 | 台股籌碼線(docs/27 b7;法人買賣超+融資融券 1,220 檔,F0 於資料落地前預先登記 `bc3c1fb`) | **MECHANISM-CONFIRMED / MARGINAL** | CAL 全過(bottom-up 外資淨買 vs 官方聚合 corr **+0.996**、融資恆等式 100%、八特徵覆蓋 808 檔/月);C1:**fnet60 外資流延續 +78.4bps t=3.34**(唯一候選)、itnet60 +1.48、dmgn60 +1.85 且**符號與擁擠反轉先驗相反**(散戶槓桿也延續);C2 歸因:**mom/avol 幾乎不衰減(−7%/+10%)=延續市場不是外資流扛的**,fnet60 為獨立第四通道(聯合 t=2.91),max5 被籌碼完全吸收(+105%,樂透特徵=流向雜訊),logdv 衰減 42%(結構性補償再加固);C3:**as-run 絕對基準誤判 SIGNAL,對照 TR-40 原機器改超額基準後翻 FAILS-COSTS**(超額毛 +0.74%/yr 不過 ≥+40bps/mo 毛閘門、超額淨 −4.12% t=−2.51;駝峰+瀰散階梯,錢在放空側而台股借券受限);C4:冷角落籌碼全在中位=流動性溢酬非流向現象;**教訓入慣例:long-only 桶成本判定一律超額基準** | 
 | TR-44 | 台股判定 × 還原股價(docs/27 b6;官方除權息前後價建還原因子,總報酬基準重跑全套) | **VERDICT-STABLE(機制)/ 但候選全退為 MARGINAL** | CAL 過(中位股利拖累 +3.23%/yr);**CAL-a 先抓到還原符號反置**(raw/factor 讓舊價膨脹→2330 還原 CAGR 反低於未還原,不可能;改 raw×factor);**C1 診斷:殖利率隨流動性單調上升(D10 4.01% > D1 3.13%)=未還原略高估 D1 相對優勢但僅 0.9pp**;C2 三候選符號與 |t|≥2 全穩(mom +86.7 t=2.53、avol +99.7 t=3.75、logdv −79 t=−2.15,logdv 減弱 25% 與診斷一致);C3 階梯仍懸崖+啞鈴(TR-41 複製);**但成本關卡後 logdv 淨 +5.32% t 降到 1.86<2=退為 MARGINAL**;C4 bp 不升反降(+40.8 t=1.32,高殖利率集中在流動大型股非價值股);**台股最終誠實狀態:機制為真但總報酬+全額成本下無一乾淨過關** | 
 | TR-03b | 共變異清理競技場(MP 譜+clipping+特徵向量端 BAHC;docs/20+23) | **clip≈LW 平手;BAHC PARTIAL;LW 慣例確認** | 463 檔 min-var 座位、判準=OOS 實現波動:LW 13.2-14.2%、clip 13.6-14.6%(**同族平手**,docs/20 預測獲支持)、BAHC 14.1-15.5%(贏 naive 沒贏 LW=特徵向量清理在 vol 通道無增值);**稽核抓幽靈資產 bug**(SW 97%/AMCR 45% 平價回填被當免費分散器,美化 LW→已加恰零報酬濾網);「賺回門票」限 vol 通道(淨報酬 inv-variance 全勝);47 檔子面板訊號特徵值中位 4=docs/20 預測在其 N 成立 |

diff --git a/docs/tests/TR-46-us-insiders.md b/docs/tests/TR-46-us-insiders.md
@@ -1,0 +1,68 @@
+# TR-46 — 美國內部人 Form 4:機會型/例行拆解(docs/28 p2)
+
+> 美大型股座位的死亡證書(TR-23/32/34)殺的全是**價格/基本面特徵**;內部人申報是先驗最強的
+> 未測**資訊通道**(Lakonishok-Lee 2001 NPR;Cohen-Malloy-Pomorski 2012「只有機會型交易帶
+> 資訊」)。誠實先驗預先寫明:文獻的規模依賴對大型股不利,**乾淨的 NO-SIGNAL 本身就是有用
+> 判定**。資料:SEC 官方 Insider Transactions Data Sets,81 季(2006q1–2026q1)全下載瘦身
+> (301.6 萬 P/S 列→officer/director 事件全市場 107.6 萬、面板內 23.0 萬)。
+> **F0 於任何訊號面板組裝前預先登記(commit `a5cca76`)**;schema 事前實測(FILING_DATE=
+> PIT 時鐘——樣本裡就有 2024 年申報 2022 年舊交易)。
+> 腳本:`scripts/tests/tr46_us_insiders.py` · collector:`scripts/collect/sec_form4.py`
+> 圖:`docs/tests/img/tr46_us_insiders.png`
+
+## 判定:**NO-SIGNAL——npr6/opp6/rou6 全部 |t|<0.5;機會型內部人淨買在本座位(S&P 500 成員,2015+)沒有定價力;這是一個覆蓋健康、管線驗證過的「有充分檢定力的零」**
+
+### CAL(三腿全過;CAL-a 抓到一個資料病理)
+
+| CAL | 結果 | 判 |
+|---|---|---|
+| a v2:年度市場賣/買**計數**比 | 中位 **3.1**(帶 [2,20])且每年 >1(最小 2.25) | ✓ |
+| b:三表 join 完整率 | **100.00%** | ✓ |
+| c:npr6 覆蓋 415 檔/月(門檻 250)+ **2020-03 危機錨** | 全市場 NPR **+0.305 ≥ P90(−0.155)**——COVID 搶買潮被機器精準捕捉 | ✓ |
+
+**⚠ POST-RUN AUDIT NOTE(CAL-a v1→v2)**:v1 用**金額**加總(股數×價格),中位 1.3 FAIL。
+診斷:年度金額比在 0.0–1457 之間亂跳(2017 一筆巨獸申報把比率打到 1457×、多年被單筆垃圾
+「買入」壓到 ≈0)——Form 4 自報欄位的已知病理,**金額加總被錯報列支配**;而訊號實際使用的
+**計數**單位每一年都健康(2.2–9.4×)。v2 錨定於計數比(帶不變)+加嚴「每年皆 >1」;壞掉的
+金額序列印作診斷不作閘門。**教訓:Form 4 金額聚合不可未經winsorize使用;計數聚合穩健。**
+(另一 T1 註:classify() 限縮到面板發行人=純速度優化,值不變。)
+
+### C1 三個單變量 FM(決定性層)
+
+| 特徵 | 斜率(bps/mo) | NW t | 中位覆蓋/月 | 判 |
+|---|---|---|---|---|
+| npr6(全體) | +13.5 | **+0.49** | 415 | 零 |
+| opp6(機會型) | +17.5 | **+0.33** | 219 | 零 |
+| rou6(例行,安慰劑) | +16.1 | **+0.22** | 141 | 零(與 opp 無分離) |
+
+**CMP 型態不存在**:opp ≈ rou ≈ npr,連「機會型 vs 例行」的識別性分離都沒有——不是
+「訊號弱」,是這個座位上**整個通道沒有橫斷面內容**。C4 分期不藏東西(opp6 2015-2020
+t=0.38、2021+ t=0.03)。分類占比:O 14% / R 18% / U 68%(多數大型股內部人沒有連續三年
+的交易史可分類——CMP 樣本要求在大型股上天然吃掉多數事件,已預先聲明)。
+
+### C2(誠實註記:薄樣本,不可解讀)
+
+opp6 加入 TR-34 六特徵後 t=−2.25——但該聯合面板的斜率量級全面爆炸(beta +749bps/mo
+t=1.28、str1m +377 t=1.09,為 TR-34 基準量級的 5–50 倍):opp6 把聯合橫斷面壓到基本面
+子集內中位 195 檔/月再經七特徵 dropna,**薄樣本+共線性的典型病徵**。C1 的有力零
+(415 檔/月、t=0.33)是本 TR 的證據;C2 依 F0 屬診斷層,如實列報、不改路由。
+
+### 這個零的價值
+
+1. **美大型股座位的資訊通道版圖再關一格**:價格(TR-23/32)、基本面(TR-26–28/34)之後,
+   內部人通道也以標準化測試關閉。與文獻一致:內部人 alpha 活在小型股(規模依賴),
+   S&P 500 成員的內部人交易被市場即時消化。
+2. **管線是活的、可轉用的**:81 季 collector+CMP 分類機器原封可用於 p3 小型股腿
+   (那裡才是文獻的原生棲地)——本 TR 同時是 p3 的基礎建設。
+3. 2020-03 危機錨的乾淨命中值得記錄:聚合層的內部人擇時資訊確實存在(搶買潮真實發生),
+   但**聚合擇時屬鐵律管轄**(×8),不開新閘門。
+
+## 誠實範圍
+
+- 大型股 2015+ =文獻說內部人訊號**最弱**的棲地;小型股腿屬 p3,不在此重規格。
+- 計數 NPR 忽略交易規模(預先聲明的單一規格;金額版因資料病理不可行,見 CAL-a)。
+- Form 4 原始件 only(4/A 排除防重複計數);officer/director only;FILING_DATE 時鐘。
+- 下市界線繼承價格庫(TR-13);試驗會計 +1(單一規格,無網格)。
+
+*2026-07-21。F0 預先登記於 commit `a5cca76`(訊號組裝前);CAL-a v1→v2 全文記錄;
+判定照 F0 路由:NO-SIGNAL。*

diff --git a/docs/28-picking-directions-and-vix.md b/docs/28-picking-directions-and-vix.md
@@ -71,7 +71,7 @@ Hou-Moskowitz price delay)——**資料全在手,隨時可動**,docs/27 §5。
 | # | 方向 | 為什麼 | 資料(已驗證) | 成本 | 先驗 |
 |---|---|---|---|---|---|
 | **p1** | ✅ **已執行(TR-45,2026-07-21:機制確認、頂十分位 FAILS-COSTS——見 docs/27 b7)** 台股籌碼線(b7):三大法人買賣超動能/融資擁擠反向/外資持股變動 | 雙重目的:(i) **機制歸因**——我們發現的「延續市場」(mom+avol 正)是誰在推?籌碼資料直接看對手方;(ii) 在**唯一橫斷面還活著的棲地**開一發預先登記的可交易候選。文獻先驗最強(Barber-Odean 台灣線就是用這類資料) | FinMind 免費層:法人買賣超 2005+、融資融券 2001+、外資持股 2004+、借券 2001+(**股權分散表=sponsor 付費,不用**);collector 擴充半天 | $0 | **高**(機制互鎖) |
-| **p2** | **美國內部人 Form 4**:routine/opportunistic 拆解(Cohen-Malloy-Pomorski) | **新資訊通道**,不在既有死亡證書(TR-23/34 殺的是價格/基本面特徵)覆蓋內;月頻低換手,零售可作;先在 S&P 500(價在手)測,小型股腿等 p3 | SEC 官方 Insider Transactions Data Sets:季度結構化免費 bulk(約 2006 起,以官方 readme 為準) | $0 | 中-高(文獻穩健但大型股較弱) |
+| **p2** | ✅ **已執行(TR-46,2026-07-21:NO-SIGNAL 有充分檢定力的零——見 docs/27 5b)** 美國內部人 Form 4:routine/opportunistic 拆解(Cohen-Malloy-Pomorski) | **新資訊通道**,不在既有死亡證書(TR-23/34 殺的是價格/基本面特徵)覆蓋內;月頻低換手,零售可作;先在 S&P 500(價在手)測,小型股腿等 p3 | SEC 官方 Insider Transactions Data Sets:季度結構化免費 bulk(約 2006 起,以官方 readme 為準) | $0 | 中-高(文獻穩健但大型股較弱) |
 | **p3** | **小型/微型股面板加速**(docs/25 C 期既列) | 異象文獻的原生棲地=最大未開採棲地;具體行動只有一個:Tiingo 滴灌名單擴到小型股樣本(第二狀態檔,與 B1 並行) | EDGAR 全覆蓋+Tiingo 免費層 | $0(慢,數月) | 高(文獻一致)但滴灌相依 |
 | p4 | 13F 機構持股:best-ideas/擁擠度 | EDGAR 免費、季頻 45 天滯後;與 GP 驗屍(regime-vs-crowding)互補 | EDGAR | $0 | 中 |
 | p5 | 短倉利率橫斷面(Boehmer et al.) | 文獻強;但雙月頻粗、歷史整併工程需驗證 | FINRA/交易所公布 | $0(工程待驗) | 中 |

diff --git a/docs/27-open-items.md b/docs/27-open-items.md
@@ -75,7 +75,7 @@ TR-35 已給實證錨:**利率主導 regime 是裸露面、扛通膨的是金不
 | # | 方向 | 觸發 | 完成長什麼樣 |
 |---|---|---|---|
 | **p1** | ✅ 台股籌碼線(=b7,見 §1;TR-45 已執行) | — | [TR-45](tests/TR-45-taiwan-chips.md) |
-| **p2** | 🔄 **進行中(2026-07-21 核准)**:81 季 ZIP(2006q1–2026q1)下載/瘦身中;**TR-46 F0 已於面板組裝前預先登記**(`scripts/tests/tr46_us_insiders.py`:npr6/opp6/rou6 三特徵、CMP 分類 PIT 版、CAL×3 含 2020-03 危機錨、超額基準成本關卡);schema 已實測(FILING_DATE=PIT 時鐘,樣本見 2024 申報 2022 舊交易) | 下載到齊(gate 81 季) | 跑 TR-46 |
+| **p2** | ✅ **已執行(TR-46,2026-07-21)**:**NO-SIGNAL(有充分檢定力的零)**——npr6/opp6/rou6 全 |t|<0.5(覆蓋 415/219/141 檔/月),CMP 型態不存在(opp≈rou);2020-03 危機錨命中=管線活的;CAL-a 抓到 Form 4 金額聚合垃圾列病理(改計數比);**美大型股三通道(價格/基本面/內部人)全關;collector 轉用 p3** | — | [TR-46](tests/TR-46-us-insiders.md) |
 | p3 | 小型股滴灌擴容(Tiingo 第二狀態檔,與 B1 並行) | 使用者核准(啟動即可,慢燒) | 名單+狀態檔;面板 TR 於覆蓋到位後 |
 | p4/p5 | 13F 機構持股 / 短倉利率 | 排 p1–p3 之後 | 各一份 TR |
 | t1 | VIX 期限結構/VRP 預測(**擇時家族**,鐵律例外條款「選擇權資訊層」,先驗低) | 使用者指定 | 一份 TR 用資料關閉「為何沒有 VIX」 |
@@ -92,6 +92,6 @@ TR-35 已給實證錨:**利率主導 regime 是裸露面、扛通膨的是金不
 3. ✅ ~~b3 桶經濟性~~(TR-41 已執行:CONCENTRATED,無高容量替代方案)。
 4. **B1 GP 終判**(Tiingo 到 300 檔自動觸發)。
 5. 成本模型接線 + 每月持倉自動化(工程債,便宜)。
-6. ✅ ~~p1 台股籌碼~~(TR-45:歸因完成、無乾淨候選)。擇股展開下一項:**p2 內部人 Form 4 > 論文佇列四篇 > p3 小型股滴灌啟動**。
+6. ✅ ~~p1 台股籌碼~~(TR-45)、✅ ~~p2 內部人 Form 4~~(TR-46:NO-SIGNAL,大型股通道版圖關閉)。擇股展開下一項:**論文佇列四篇 > p3 小型股滴灌啟動**(p3 同時解鎖內部人小型股腿——TR-46 機器原封可轉用)。
 
 *本表隨每次執行更新;完成項移到對應 TR/文件並在此標 ✅ 與 commit。*
